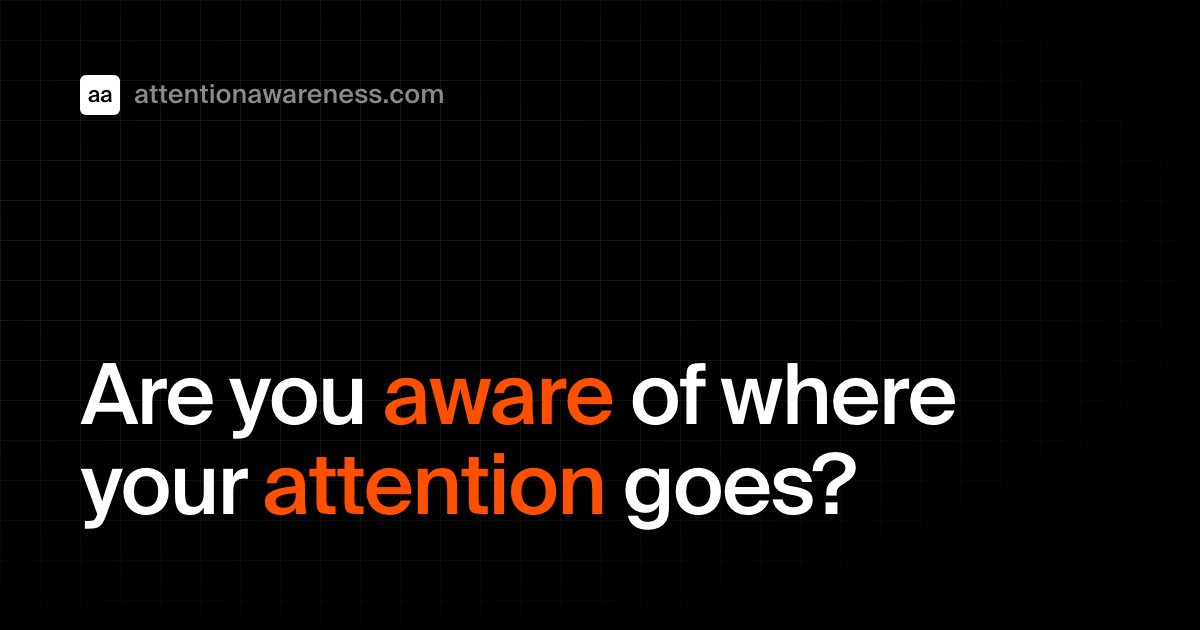
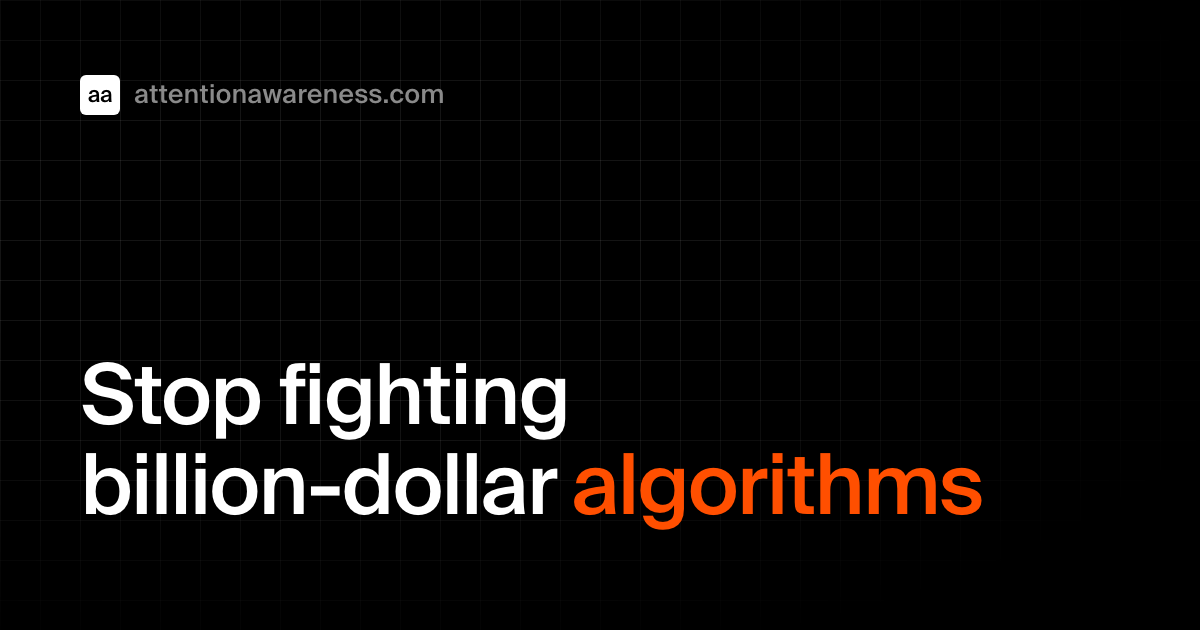
feat(web): share image says the new headline
Claude-Session: https://claude.ai/code/session_01PE2ufhKG5TLuehkWcaZPHT

Changed region(s): [[0.0617, 0.573, 0.8325, 0.8444]]

diff --git a/scripts/render-brand.ts b/scripts/render-brand.ts
@@ -82,8 +82,19 @@ body { background: ${bg}; }
   width: ${size}px;
 }</style><div class="mark">${MARK}</div>`;
 
-/** The question the share card asks, with the two words that carry it. */
-const OG_QUESTION = `Are you <em>aware</em> of where your <em>attention</em> goes?`;
+/**
+ * The hero's headline, read from its own messages (`home_hero_title` and
+ * `home_hero_title_accent`), so the share card never drifts from the page.
+ * Only the accent word is orange.
+ */
+const hero = JSON.parse(readFileSync(path.join(root, 'apps/web/messages/en.json'), 'utf8')) as {
+  home_hero_title: string;
+  home_hero_title_accent: string;
+};
+const OG_TITLE = hero.home_hero_title.replace(
+  '{algorithms}',
+  `<em>${hero.home_hero_title_accent}</em>`,
+);
 const ORANGE = '#ff4f00';
 /** The page's graph paper: the same 40px ruling, the same faint white line. */
 const OG_LINE = 'rgba(255, 255, 255, 0.08)';
@@ -99,9 +110,9 @@ body { height: 630px; overflow: hidden; position: relative; width: 1200px; }
 }
 .brand { align-items: center; color: ${GRAY}; display: flex; font-size: 26px; gap: 14px; left: 80px; position: absolute; top: 72px; }
 .mark { align-items: center; background: ${WHITE}; border-radius: 6px; color: ${BLACK}; display: flex; font-size: 22px; height: 40px; justify-content: center; letter-spacing: -0.02em; width: 40px; }
-.question { bottom: 96px; font-size: 84px; left: 80px; letter-spacing: -0.03em; line-height: 1.08; position: absolute; right: 80px; text-wrap: balance; }
+.title { bottom: 96px; font-size: 84px; left: 80px; letter-spacing: -0.03em; line-height: 1.08; position: absolute; right: 80px; text-wrap: balance; }
 em { color: ${ORANGE}; font-style: normal; }
-</style><div class="grid"></div><div class="brand"><div class="mark">${MARK}</div>attentionawareness.com</div><div class="question">${OG_QUESTION}</div>`;
+</style><div class="grid"></div><div class="brand"><div class="mark">${MARK}</div>attentionawareness.com</div><div class="title">${OG_TITLE}</div>`;
 
 const browser = await chromium.launch();
 const page = await browser.newPage({ deviceScaleFactor: 1 });
